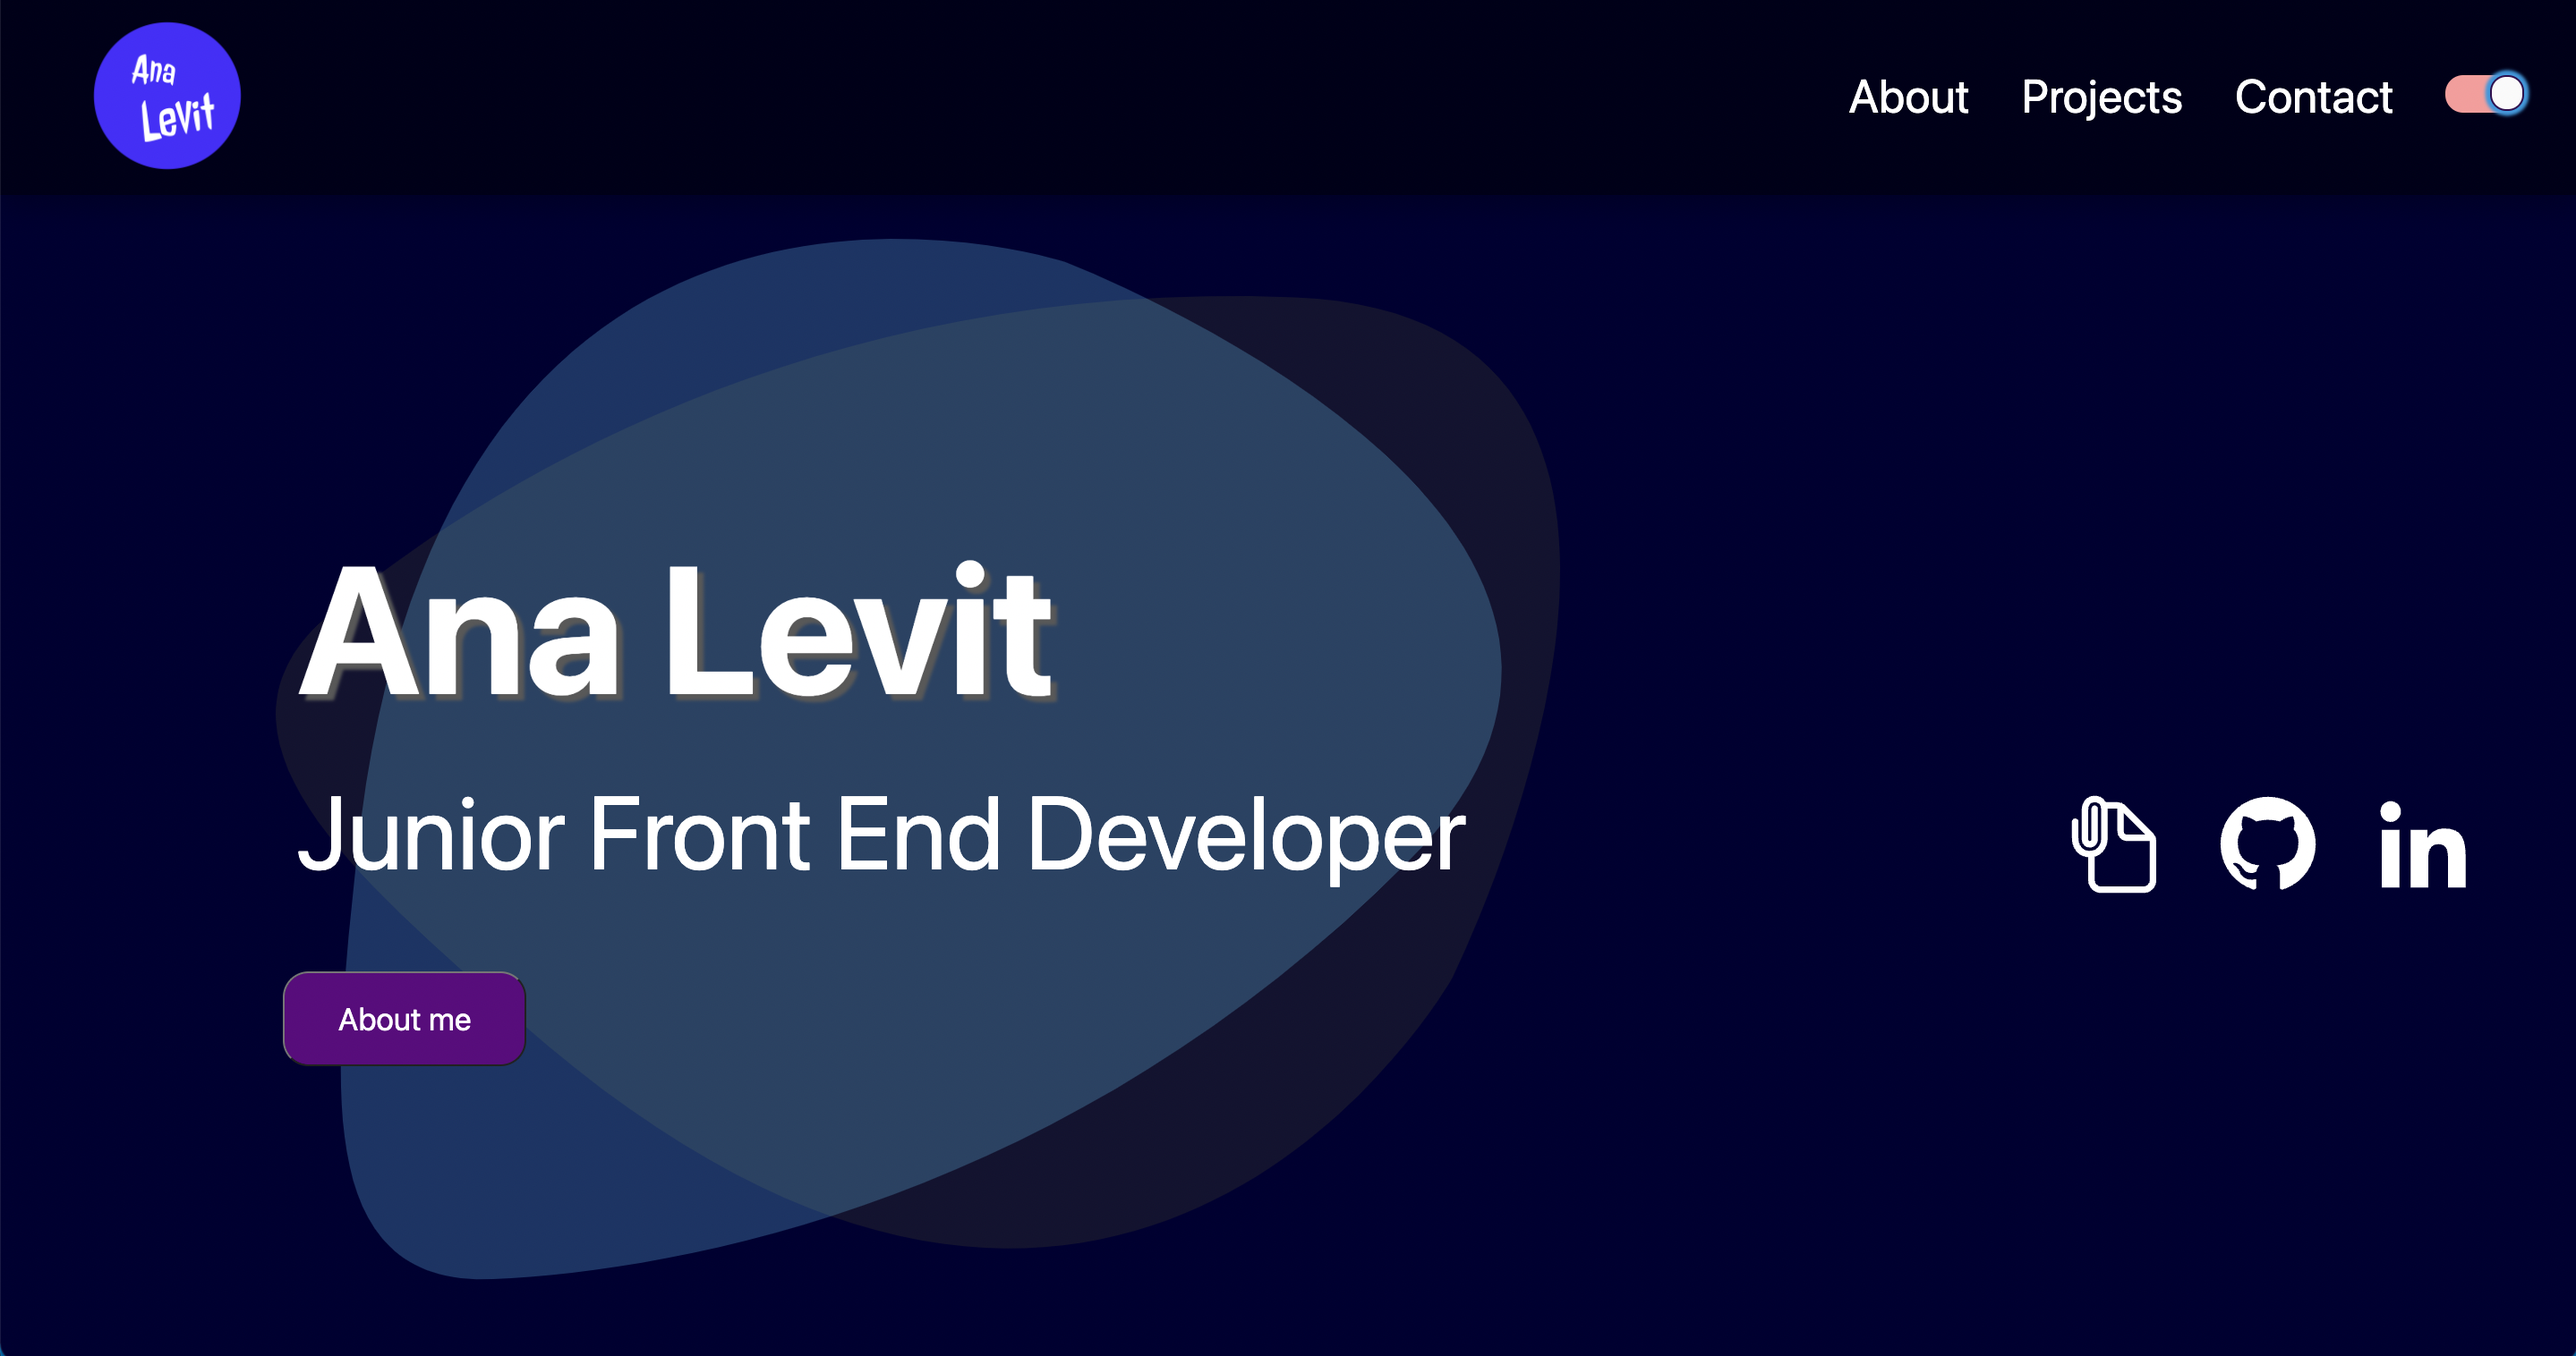
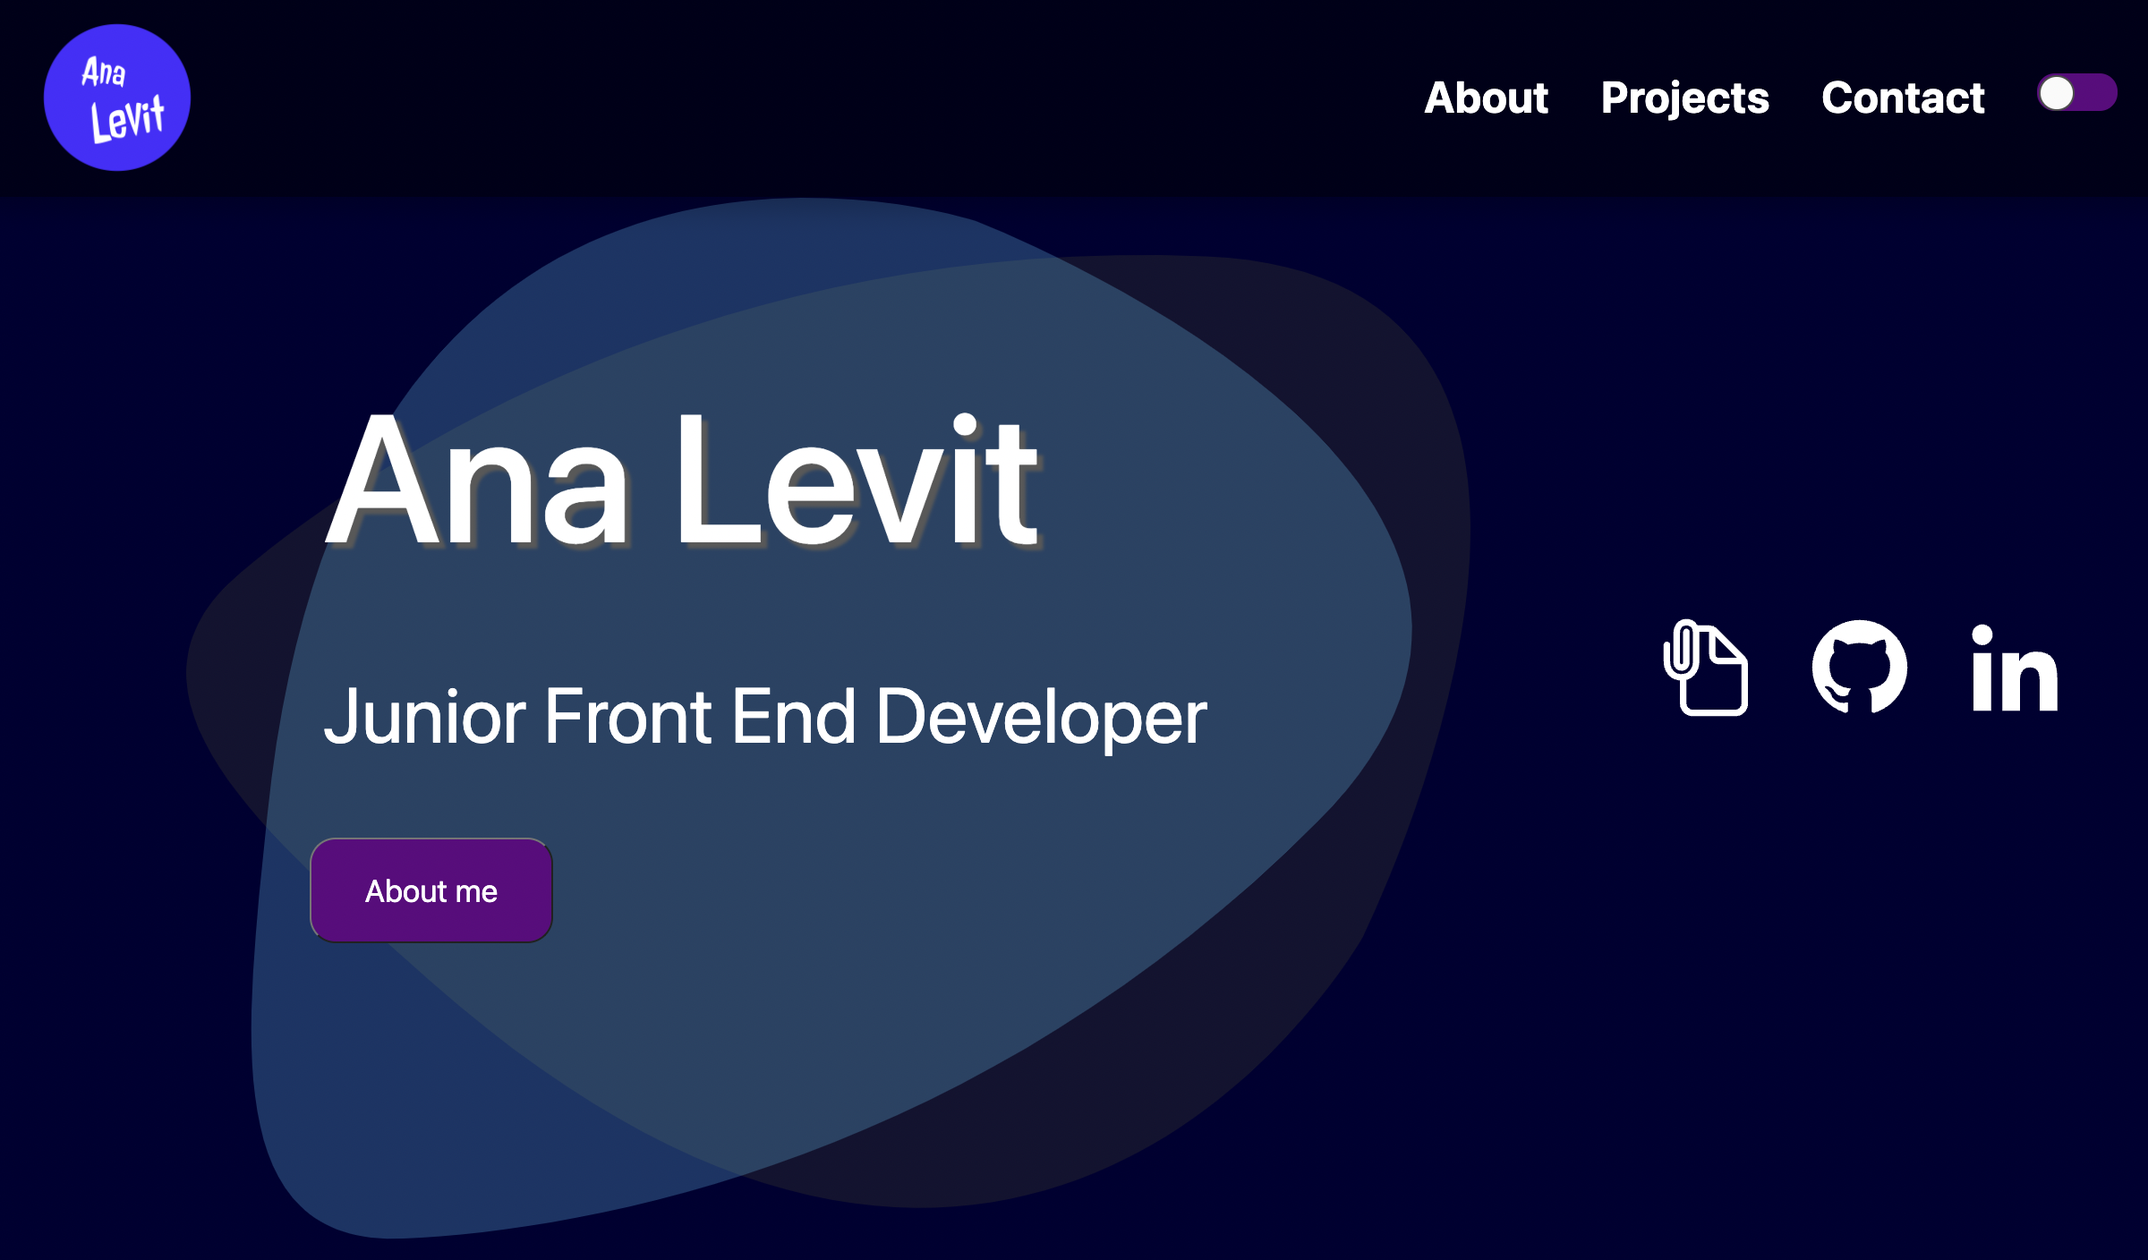
folder structure refactoring

diff --git a/src/view/TopBar/VerticalNav.jsx b/src/view/TopBar/VerticalNav.jsx
@@ -38,6 +38,10 @@ const MenuBtn = styled.button`
   border: none;
   font-size: 2rem;
 
+  :hover {
+    color: ${props => props.theme.body}
+  }
+
   @media only screen and (max-width: 812px) {
     display: block;
   }
@@ -64,6 +68,10 @@ const Link = styled(AnchorLink)`
   text-decoration: none;
   font-size: 1.8rem;
 
+  :hover {
+    color: ${props => props.theme.body}
+  }
+
   @media only screen and (max-width: 812px) {
     font-size: 1.3rem;
   }
@@ -78,6 +86,11 @@ const ButtonX = styled.button`
   color: red;
   border: none;
   font-weight: bold;
+
+  :hover {
+    font-size: 1.5rem;
+    transition: 1s;
+  }
 
   @media only screen and (max-width: 812px) {
     display: block;

diff --git a/src/App.js b/src/App.js
@@ -3,10 +3,10 @@ import { ThemeProvider } from "styled-components";
 
 import { lightTheme, darkTheme } from './styles/theme';
 import { useDarkMode } from './hooks/useDarkMode';
-import TopBar from './view/TopBar'
-import Main from './view/Main'
-import Contact from './view/Contact';
-import Hero from './view/Hero';
+import TopBar from './view/TopBar/TopBar'
+import Main from './view/Main/Main'
+import Contact from './view/Footer/Footer';
+import Hero from './view/Hero/Hero';
 
 import { GlobalStyles } from "./styles/global";
 

diff --git a/src/view/Main/Projects/Projects.jsx b/src/view/Main/Projects/Projects.jsx
@@ -4,8 +4,8 @@ import { Pagination } from 'antd';
 import 'antd/dist/antd.css';
 import AnchorLink from 'react-anchor-link-smooth-scroll';
 
-import Project from './Project';
-import { Title } from '../styles/global';
+import Project from './ProjectCard';
+import { Title } from '../../../styles/global';
 
 const Projects = ({ repos }) => {
     const [currentPage, setCurrentPage] = useState(1);

diff --git a/src/view/Main/Main.jsx b/src/view/Main/Main.jsx
@@ -1,8 +1,11 @@
 import React, { useEffect, useState } from "react";
 import styled from "styled-components";
 
-import About from './About';
-import Projects from './Projects';
+import About from './About/About';
+import Projects from './Projects/Projects';
+
+
+// import Projects from './Projects/Projects';
 
 const Main = () => {
     const [repos, setRepos] = useState([]);

diff --git a/src/view/Footer/Footer.jsx b/src/view/Footer/Footer.jsx
@@ -1,8 +1,8 @@
 import React from "react";
 import styled from "styled-components";
 
-import { Title } from '../styles/global';
-import Icons from './Icons';
+import { Title } from '../../styles/global';
+import Icons from '../Icons';
 
 const Contact = () => {
 

diff --git a/src/view/Main/About/About.jsx b/src/view/Main/About/About.jsx
@@ -1,7 +1,7 @@
 import React from "react";
 import styled, { ThemeConsumer } from "styled-components";
 
-import { Title } from '../styles/global';
+import { Title } from '../../../styles/global';
 
 
 const About = ({ avatar }) => {

diff --git a/src/view/Hero/Hero.jsx b/src/view/Hero/Hero.jsx
@@ -2,7 +2,7 @@ import React from "react";
 import styled from "styled-components";
 import AnchorLink from 'react-anchor-link-smooth-scroll';
 
-import Icons from './Icons';
+import Icons from '../Icons';
 
 const Hero = () => {
 

diff --git a/src/view/TopBar/TopBar.jsx b/src/view/TopBar/TopBar.jsx
@@ -72,7 +72,7 @@ const Link = styled(AnchorLink)`
   color: white;
   text-decoration: none;
   font-size: 1.7rem;
-  font-weight: bold;
+  font-weight: 500;
 
   :hover {
     color: ${props => props.theme.body}
